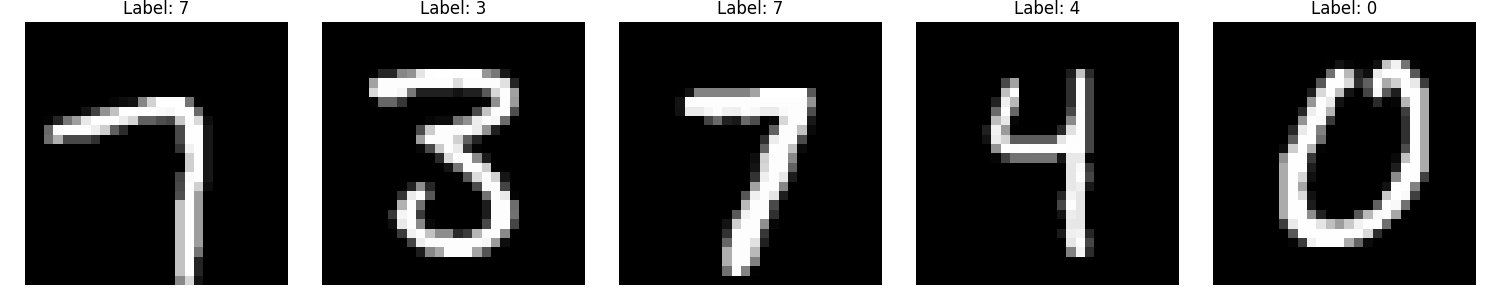
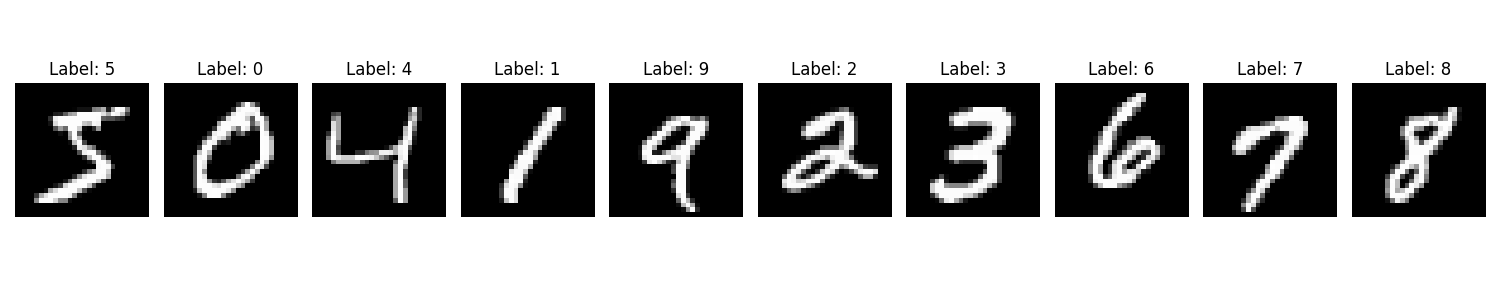
upd the code (Dockerfile, image training, train method, model...)

diff --git a/src/app/main.py b/src/app/main.py
@@ -8,8 +8,7 @@ import io
 import sys
 import os
 
-# Add the path to the model module
-sys.path.append(os.path.join(os.path.dirname(__file__), '..'))
+# Import the ConvNet class from the model module
 from model.model import ConvNet
 
 # Initialize FastAPI
@@ -37,7 +36,7 @@ def load_model():
             MODEL = ConvNet(input_size=(1, 28, 28), n_kernels=6, output_size=10)
             
             # Load the saved weights
-            model_path = os.path.join(os.path.dirname(__file__), '../../model/convnet_mnist.pt')
+            model_path = os.path.join(os.path.dirname(__file__), '../../model/mnist-0.0.1.pt')
             MODEL.load_state_dict(torch.load(model_path, map_location=DEVICE))
             MODEL.to(DEVICE)
             MODEL.eval()
@@ -60,22 +59,16 @@ def preprocess_image(image_bytes: bytes) -> np.ndarray:
     try:
         # Open the image with PIL
         image = Image.open(io.BytesIO(image_bytes))
-        
         # Convert to grayscale
         image = image.convert('L')
-        
         # Resize to 28x28
         image = image.resize((28, 28))
-        
         # Convert to numpy array
         image_array = np.array(image, dtype=np.float32)
-        
         # Normalize between 0 and 1
         image_array = image_array / 255.0
-        
         # Apply the same normalization as during training
         image_array = (image_array - 0.1307) / 0.3081
-        
         return image_array
         
     except Exception as e:
@@ -88,29 +81,23 @@ def predict(image_array: np.ndarray, model: torch.nn.Module) -> dict:
     try:
         # Convert to PyTorch tensor
         tensor = torch.from_numpy(image_array).float()
-        
         # Add batch and channel dimensions: (1, 1, 28, 28)
         tensor = tensor.unsqueeze(0).unsqueeze(0)
-        
         # Send to the device
         tensor = tensor.to(DEVICE)
-        
         # Prediction
         with torch.no_grad():
             logits = model(tensor)
             probabilities = F.softmax(logits, dim=1)
             predicted_class = torch.argmax(logits, dim=1).item()
             confidence = probabilities[0][predicted_class].item()
-        
         # Return the result as a dictionary
         result = {
             "predicted_digit": int(predicted_class),
             "confidence": float(confidence),
             "probabilities": probabilities[0].cpu().numpy().tolist()
         }
-        
         return result
-        
     except Exception as e:
         raise HTTPException(status_code=500, detail=f"Erreur lors de la prédiction: {str(e)}")
 
@@ -136,16 +123,12 @@ async def predict_digit(file: UploadFile = File(...)):
     try:
         # Read the file content
         image_bytes = await file.read()
-        
         # Preprocess the image
         image_array = preprocess_image(image_bytes)
-        
         # Load t
         model = load_model()
-        
         # Do the prediction
         result = predict(image_array, model)
-        
         return result
         
     except HTTPException:

diff --git a/notebook/load_mnist.py b/notebook/load_mnist.py
@@ -1,6 +1,4 @@
 import torch
-import torch.nn as nn
-import torch.nn.functional as F
 from torchvision import datasets, transforms
 import matplotlib.pyplot as plt
 
@@ -20,29 +18,29 @@ transform = transforms.Compose([
     transforms.Normalize((0.1307,), (0.3081,))
 ])
 
-# Chargement des datasets
-train_loader = torch.utils.data.DataLoader(
-    datasets.MNIST("../data/raw", download=True, train=True, transform=transform),
-    batch_size=64, shuffle=True
-)
-test_loader = torch.utils.data.DataLoader(
-    datasets.MNIST("../data/raw", download=True, train=False, transform=transform),
-    batch_size=64, shuffle=True
-)
+# Chargement du dataset
+train_dataset = datasets.MNIST("../data/raw", download=True, train=True, transform=transform)
 
-# Affichage des 5 premières images
-batch = next(iter(train_loader))
-images = batch[0][:5]  # 5 premières images
-labels = batch[1][:5]  # 5 premiers labels
+# Trouver une image pour chaque chiffre de 0 à 9
+images = []
+labels = []
+found_digits = set()
 
-# Création d'une figure avec 5 sous-graphiques
-fig, axes = plt.subplots(1, 5, figsize=(15, 3))
-for i in range(5):
-    # Afficher l'image (enlever la dimension du canal avec squeeze())
+for img, label in train_dataset:
+    if label not in found_digits:
+        images.append(img)
+        labels.append(label)
+        found_digits.add(label)
+    if len(found_digits) == 10:
+        break
+
+# Affichage des 10 chiffres dans l'ordre
+fig, axes = plt.subplots(1, 10, figsize=(15, 3))
+for i in range(10):
     axes[i].imshow(images[i].squeeze(), cmap='gray')
     axes[i].set_title(f'Label: {labels[i]}')
     axes[i].axis('off')
 plt.tight_layout()
-plt.savefig('mnist_samples.png')  # Sauvegarde la figure dans un fichier
-plt.close()  # Ferme la figure pour libérer la mémoire
+plt.savefig('mnist_samples.png')
+plt.close()
 print("Images sauvegardées dans mnist_samples.png")

diff --git a/src/model/train.py b/src/model/train.py
@@ -98,7 +98,7 @@ def main():
     test(model, test_loader, perm)
 
     # Sauvegarde du modèle entraîné
-    torch.save(model.state_dict(), "../../model/convnet_mnist.pt")
+    torch.save(model.state_dict(), "../../models/mnist-0.0.1.pt")
 
 if __name__ == "__main__":
     main()

diff --git a/src/app/app.py b/src/app/app.py
@@ -5,7 +5,7 @@ import numpy as np
 import requests
 import io
 
-API_URL = "http://localhost:8000/api/v1/predict"
+API_URL = "http://mnist-backend:8000/api/v1/predict"
 
 st.markdown(
     """

diff --git a/src/model/__init__.py b/src/model/__init__.py
@@ -1,0 +1,3 @@
+from .model import ConvNet, MLP
+
+__all__ = ['ConvNet', 'MLP']
